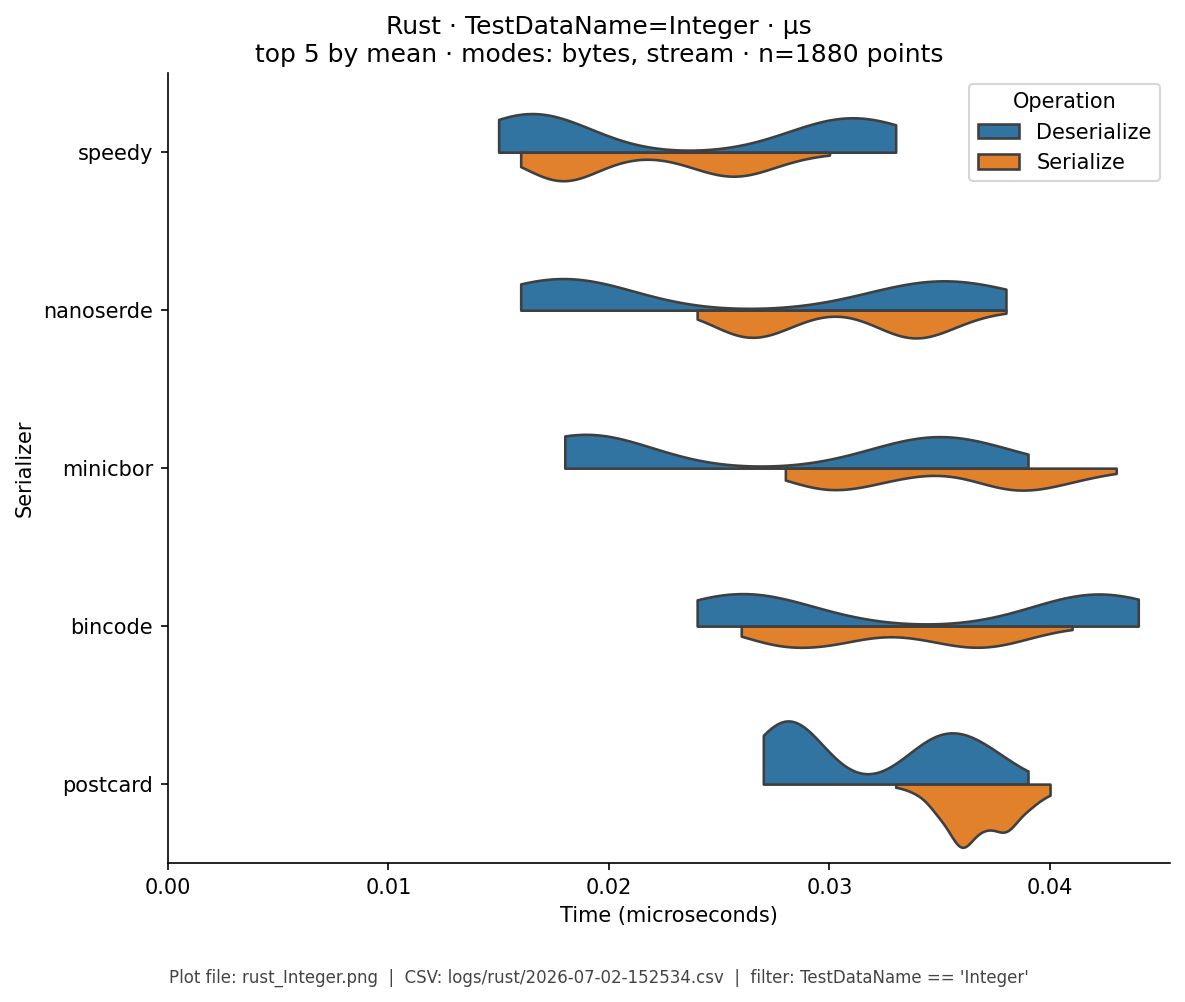
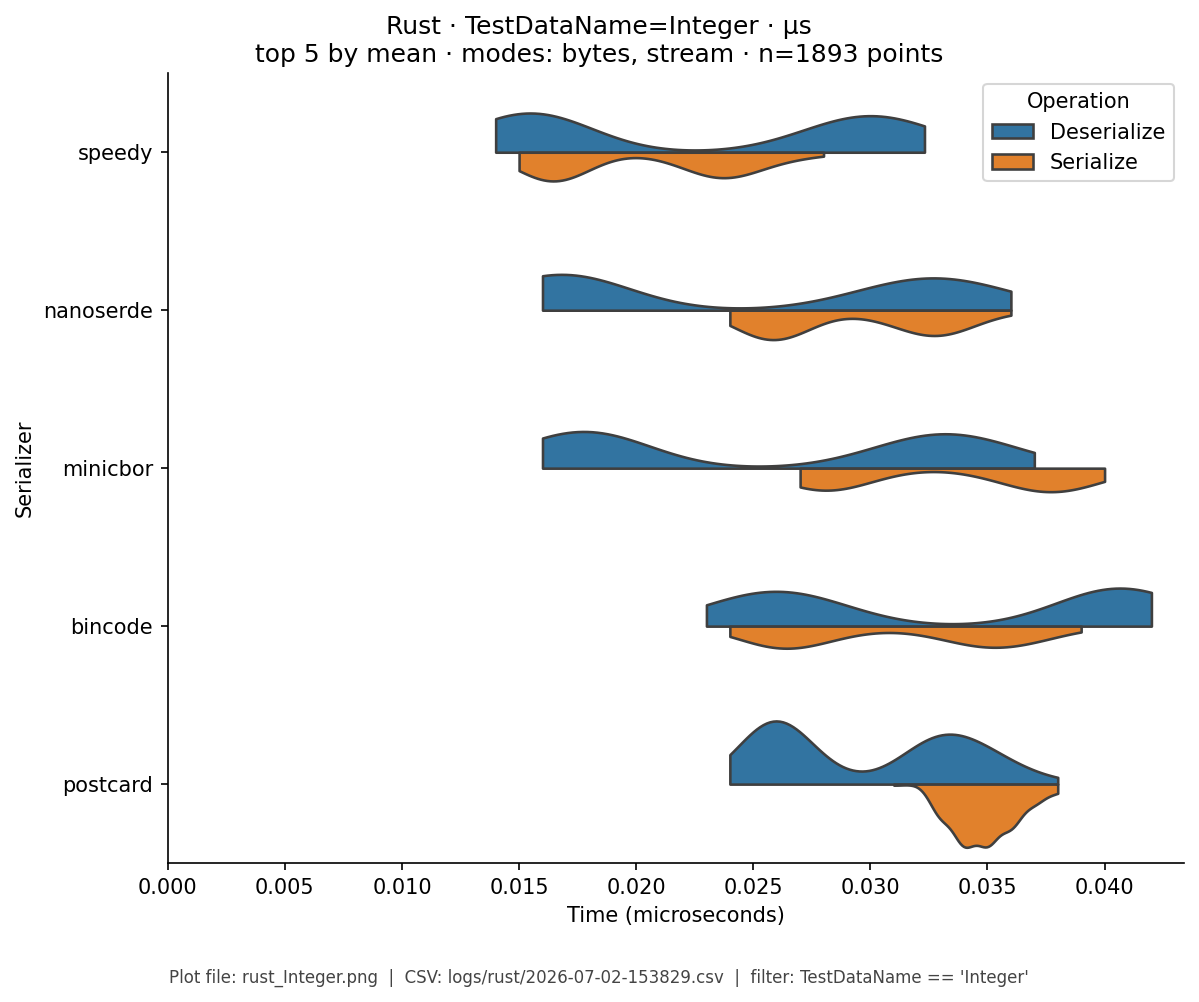
docs(rust): refresh results from full 100-rep run 2026-07-02-153829
Regenerate docs/rust/results.md and violin plots from the latest harness
CSV (15 serializers, bytes/stream modes, category rankings).

diff --git a/docs/rust/results.md b/docs/rust/results.md
@@ -1,6 +1,6 @@
 # Rust — Benchmark Results
 
-**Generated:** 2026-07-02T15:34:35.909582
+**Generated:** 2026-07-02T15:38:36.862925
 
 Published **local snapshot** (not regenerated by GitHub Actions). Numbers may differ if you re-run benchmarks on another machine.
 
@@ -15,42 +15,42 @@ Harness **modes** (CSV `StringOrStream`): **bytes mode** = in-memory buffer API;
 
 | serializer | bytes mode | stream mode |
 |---|---|---|
-| bincode | 485 | 572 |
-| bitcode | 2,028 | 2,095 |
-| bson | 1,906 | 1,973 |
-| ciborium | 1,538 | 1,682 |
-| flexbuffers | 2,887 | 2,949 |
-| minicbor | 603 | 659 |
-| nanoserde | 385 | 450 |
-| postcard | 440 | 477 |
-| prost | 610 | 651 |
-| rkyv | 378 | 412 |
-| rmp-serde | 992 | 1,044 |
-| serde_json | 1,239 | 2,076 |
-| simd-json | 1,280 | 1,297 |
-| sonic-rs | 887 | 925 |
-| speedy | 209 | 260 |
+| bincode | 466 | 548 |
+| bitcode | 1,946 | 1,975 |
+| bson | 1,695 | 1,750 |
+| ciborium | 1,414 | 1,648 |
+| flexbuffers | 2,757 | 2,726 |
+| minicbor | 550 | 609 |
+| nanoserde | 363 | 413 |
+| postcard | 406 | 473 |
+| prost | 592 | 622 |
+| rkyv | 345 | 400 |
+| rmp-serde | 882 | 957 |
+| serde_json | 1,135 | 2,014 |
+| simd-json | 1,127 | 1,193 |
+| sonic-rs | 797 | 844 |
+| speedy | 194 | 244 |
 
 
 ### Rust: Ops/Sec by Serializer and Data Type
 
 | serializer | EDI_835 | Integer | Person | SimpleObject | StringArray | Telemetry |
 |---|---|---|---|---|---|---|
-| bincode | 1,036,094 | 18,181,818 | 2,060,642 | 6,374,445 | 300,176 | 2,029,975 |
-| bitcode | 375,309 | 2,773,423 | 493,218 | 1,553,385 | 335,880 | 734,064 |
-| bson | 156,202 | 5,701,637 | 524,530 | 2,090,076 | 144,797 | 173,990 |
-| ciborium | 185,418 | 7,439,344 | 650,149 | 2,461,714 | 141,935 | 417,245 |
-| flexbuffers | 100,615 | 3,754,165 | 346,397 | 1,318,909 | 157,184 | 286,868 |
-| minicbor | 472,070 | 20,189,003 | 1,659,312 | 6,331,316 | 289,357 | 668,779 |
-| nanoserde | 1,021,923 | 22,466,173 | 2,595,812 | 7,428,571 | 345,057 | 1,724,490 |
-| postcard | 1,156,506 | 15,445,939 | 2,272,894 | 6,946,052 | 289,446 | 2,276,622 |
-| prost | 661,324 | - | 1,640,269 | 5,871,201 | 284,069 | 1,324,272 |
-| rkyv | 1,270,683 | 16,305,322 | 2,647,094 | 8,316,760 | 355,689 | 4,385,338 |
-| rmp-serde | 353,153 | 10,979,627 | 1,008,357 | 3,302,902 | 278,841 | 849,633 |
-| serde_json | 211,240 | 12,115,685 | 807,095 | 3,799,422 | 324,537 | 213,443 |
-| simd-json | 205,007 | 3,950,236 | 781,053 | 2,472,261 | 245,473 | 227,429 |
-| sonic-rs | 265,808 | 10,126,582 | 1,127,601 | 4,068,348 | 468,090 | 253,515 |
-| speedy | 1,761,197 | 29,019,346 | 4,784,946 | 17,872,161 | 411,407 | 10,876,439 |
+| bincode | 1,009,507 | 19,102,621 | 2,143,799 | 5,750,431 | 300,908 | 2,068,585 |
+| bitcode | 368,227 | 2,921,864 | 513,992 | 1,416,125 | 339,206 | 730,727 |
+| bson | 155,445 | 5,844,915 | 590,044 | 2,236,926 | 141,793 | 178,061 |
+| ciborium | 183,098 | 7,863,445 | 707,336 | 2,717,863 | 144,016 | 415,724 |
+| flexbuffers | 99,862 | 4,016,579 | 362,768 | 1,195,480 | 146,539 | 282,905 |
+| minicbor | 480,600 | 21,643,007 | 1,816,602 | 6,452,081 | 281,054 | 731,420 |
+| nanoserde | 1,010,244 | 23,458,947 | 2,757,775 | 7,463,305 | 323,033 | 1,847,538 |
+| postcard | 1,153,591 | 16,469,746 | 2,465,400 | 6,518,433 | 298,064 | 2,272,273 |
+| prost | 660,056 | - | 1,688,545 | 6,106,973 | 279,239 | 1,347,595 |
+| rkyv | 1,255,518 | 17,373,043 | 2,894,546 | 8,411,677 | 340,336 | 4,439,891 |
+| rmp-serde | 350,343 | 11,498,610 | 1,133,899 | 3,275,297 | 266,826 | 902,619 |
+| serde_json | 196,031 | 12,021,136 | 881,345 | 3,568,761 | 333,303 | 227,193 |
+| simd-json | 203,068 | 4,009,312 | 887,583 | 2,676,048 | 247,703 | 245,952 |
+| sonic-rs | 259,342 | 10,328,638 | 1,255,449 | 4,103,243 | 467,059 | 254,461 |
+| speedy | 1,897,846 | 31,226,486 | 5,167,655 | 17,849,980 | 393,071 | 10,690,587 |
 
 ### Rust: within-category ranking (bytes mode only)
 
@@ -61,36 +61,36 @@ Values are mean Ser+Deser **ops/s** over fixtures, using the harness **bytes mod
 
 | serializer | mean ops/s (bytes mode) |
 |---|---:|
-| serde_json | 2,911,904 |
-| sonic-rs | 2,718,324 |
-| simd-json | 1,313,576 |
+| serde_json | 2,871,295 |
+| sonic-rs | 2,778,032 |
+| simd-json | 1,378,278 |
 
 #### Rust-centric binary
 
 | serializer | mean ops/s (bytes mode) |
 |---|---:|
-| speedy | 10,787,583 |
-| nanoserde | 5,930,338 |
-| bincode | 4,997,192 |
-| postcard | 4,731,243 |
-| bitcode | 1,044,213 |
+| speedy | 11,204,271 |
+| nanoserde | 6,143,474 |
+| bincode | 5,062,642 |
+| postcard | 4,862,918 |
+| bitcode | 1,048,357 |
 
 #### Schema / zero-copy family
 
 | serializer | mean ops/s (bytes mode) |
 |---|---:|
-| rkyv | 5,546,814 |
-| prost | 1,956,227 |
-| flexbuffers | 994,023 |
+| rkyv | 5,785,835 |
+| prost | 2,016,482 |
+| flexbuffers | 1,017,356 |
 
 #### Schemaless binary (interop)
 
 | serializer | mean ops/s (bytes mode) |
 |---|---:|
-| minicbor | 4,934,973 |
-| rmp-serde | 2,795,419 |
-| ciborium | 1,882,634 |
-| bson | 1,465,205 |
+| minicbor | 5,234,127 |
+| rmp-serde | 2,904,599 |
+| ciborium | 2,005,247 |
+| bson | 1,524,531 |
 
 ### Fidelity notes (Rust)
 
